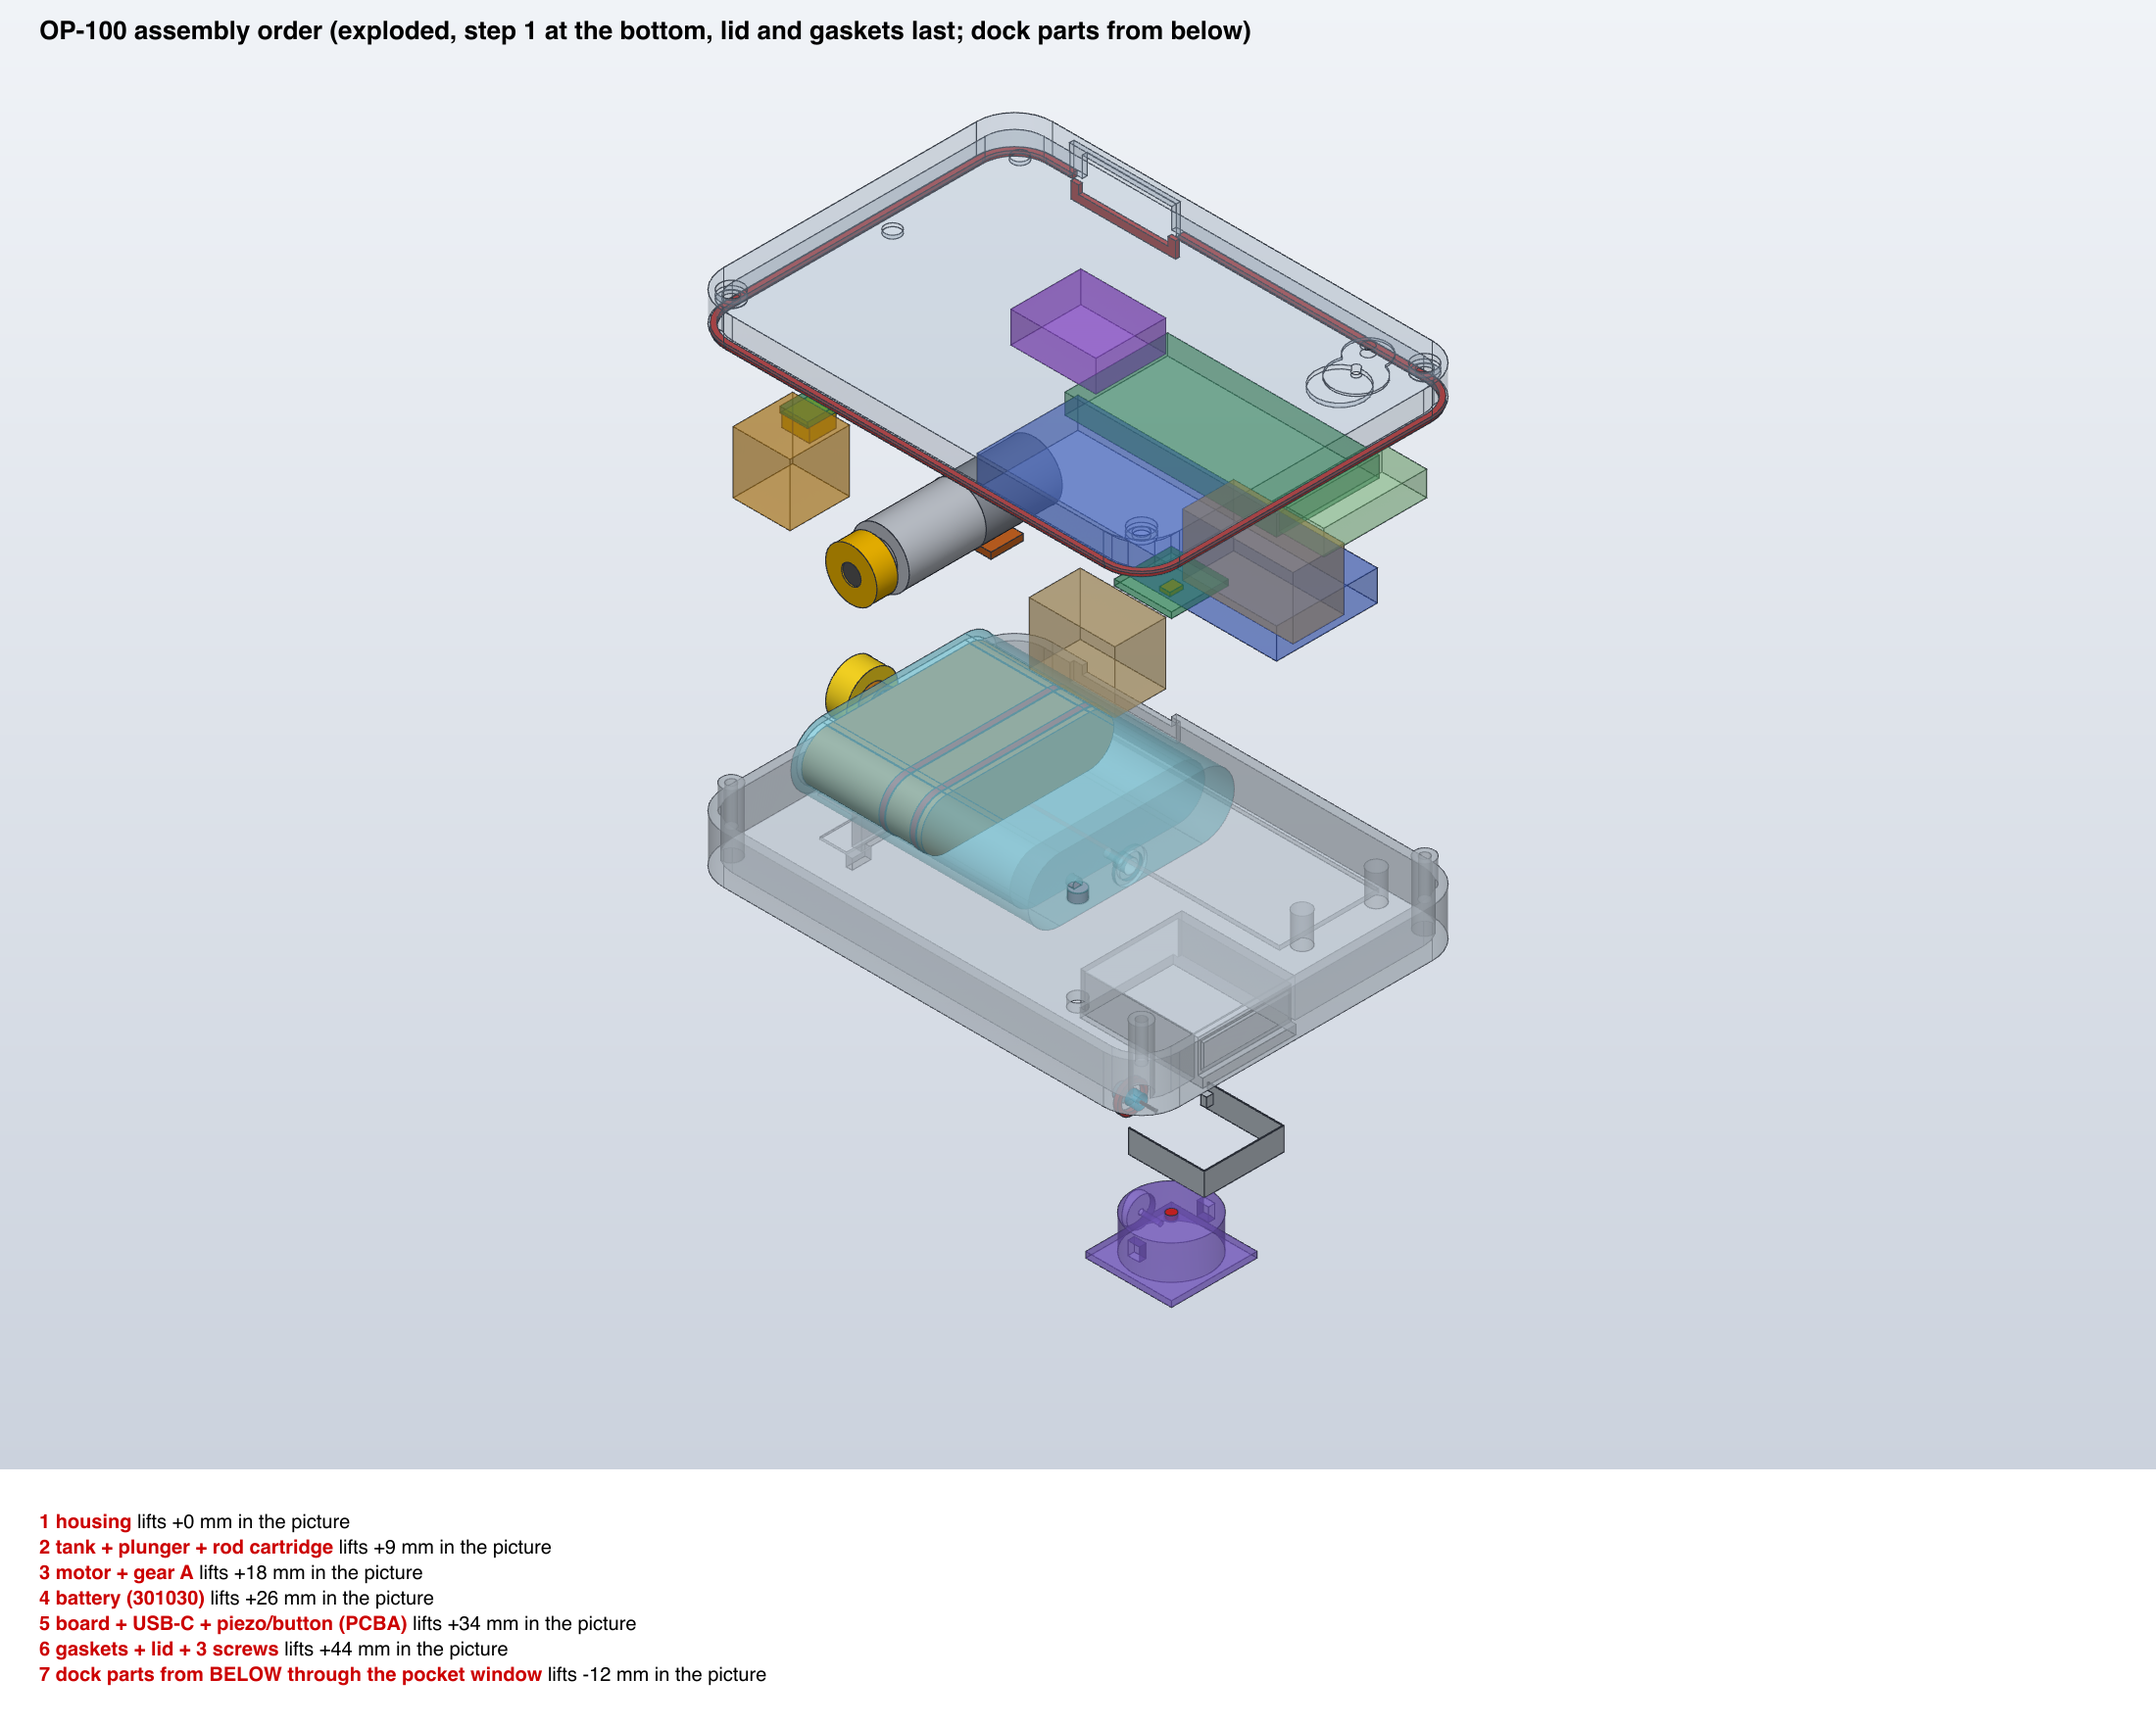
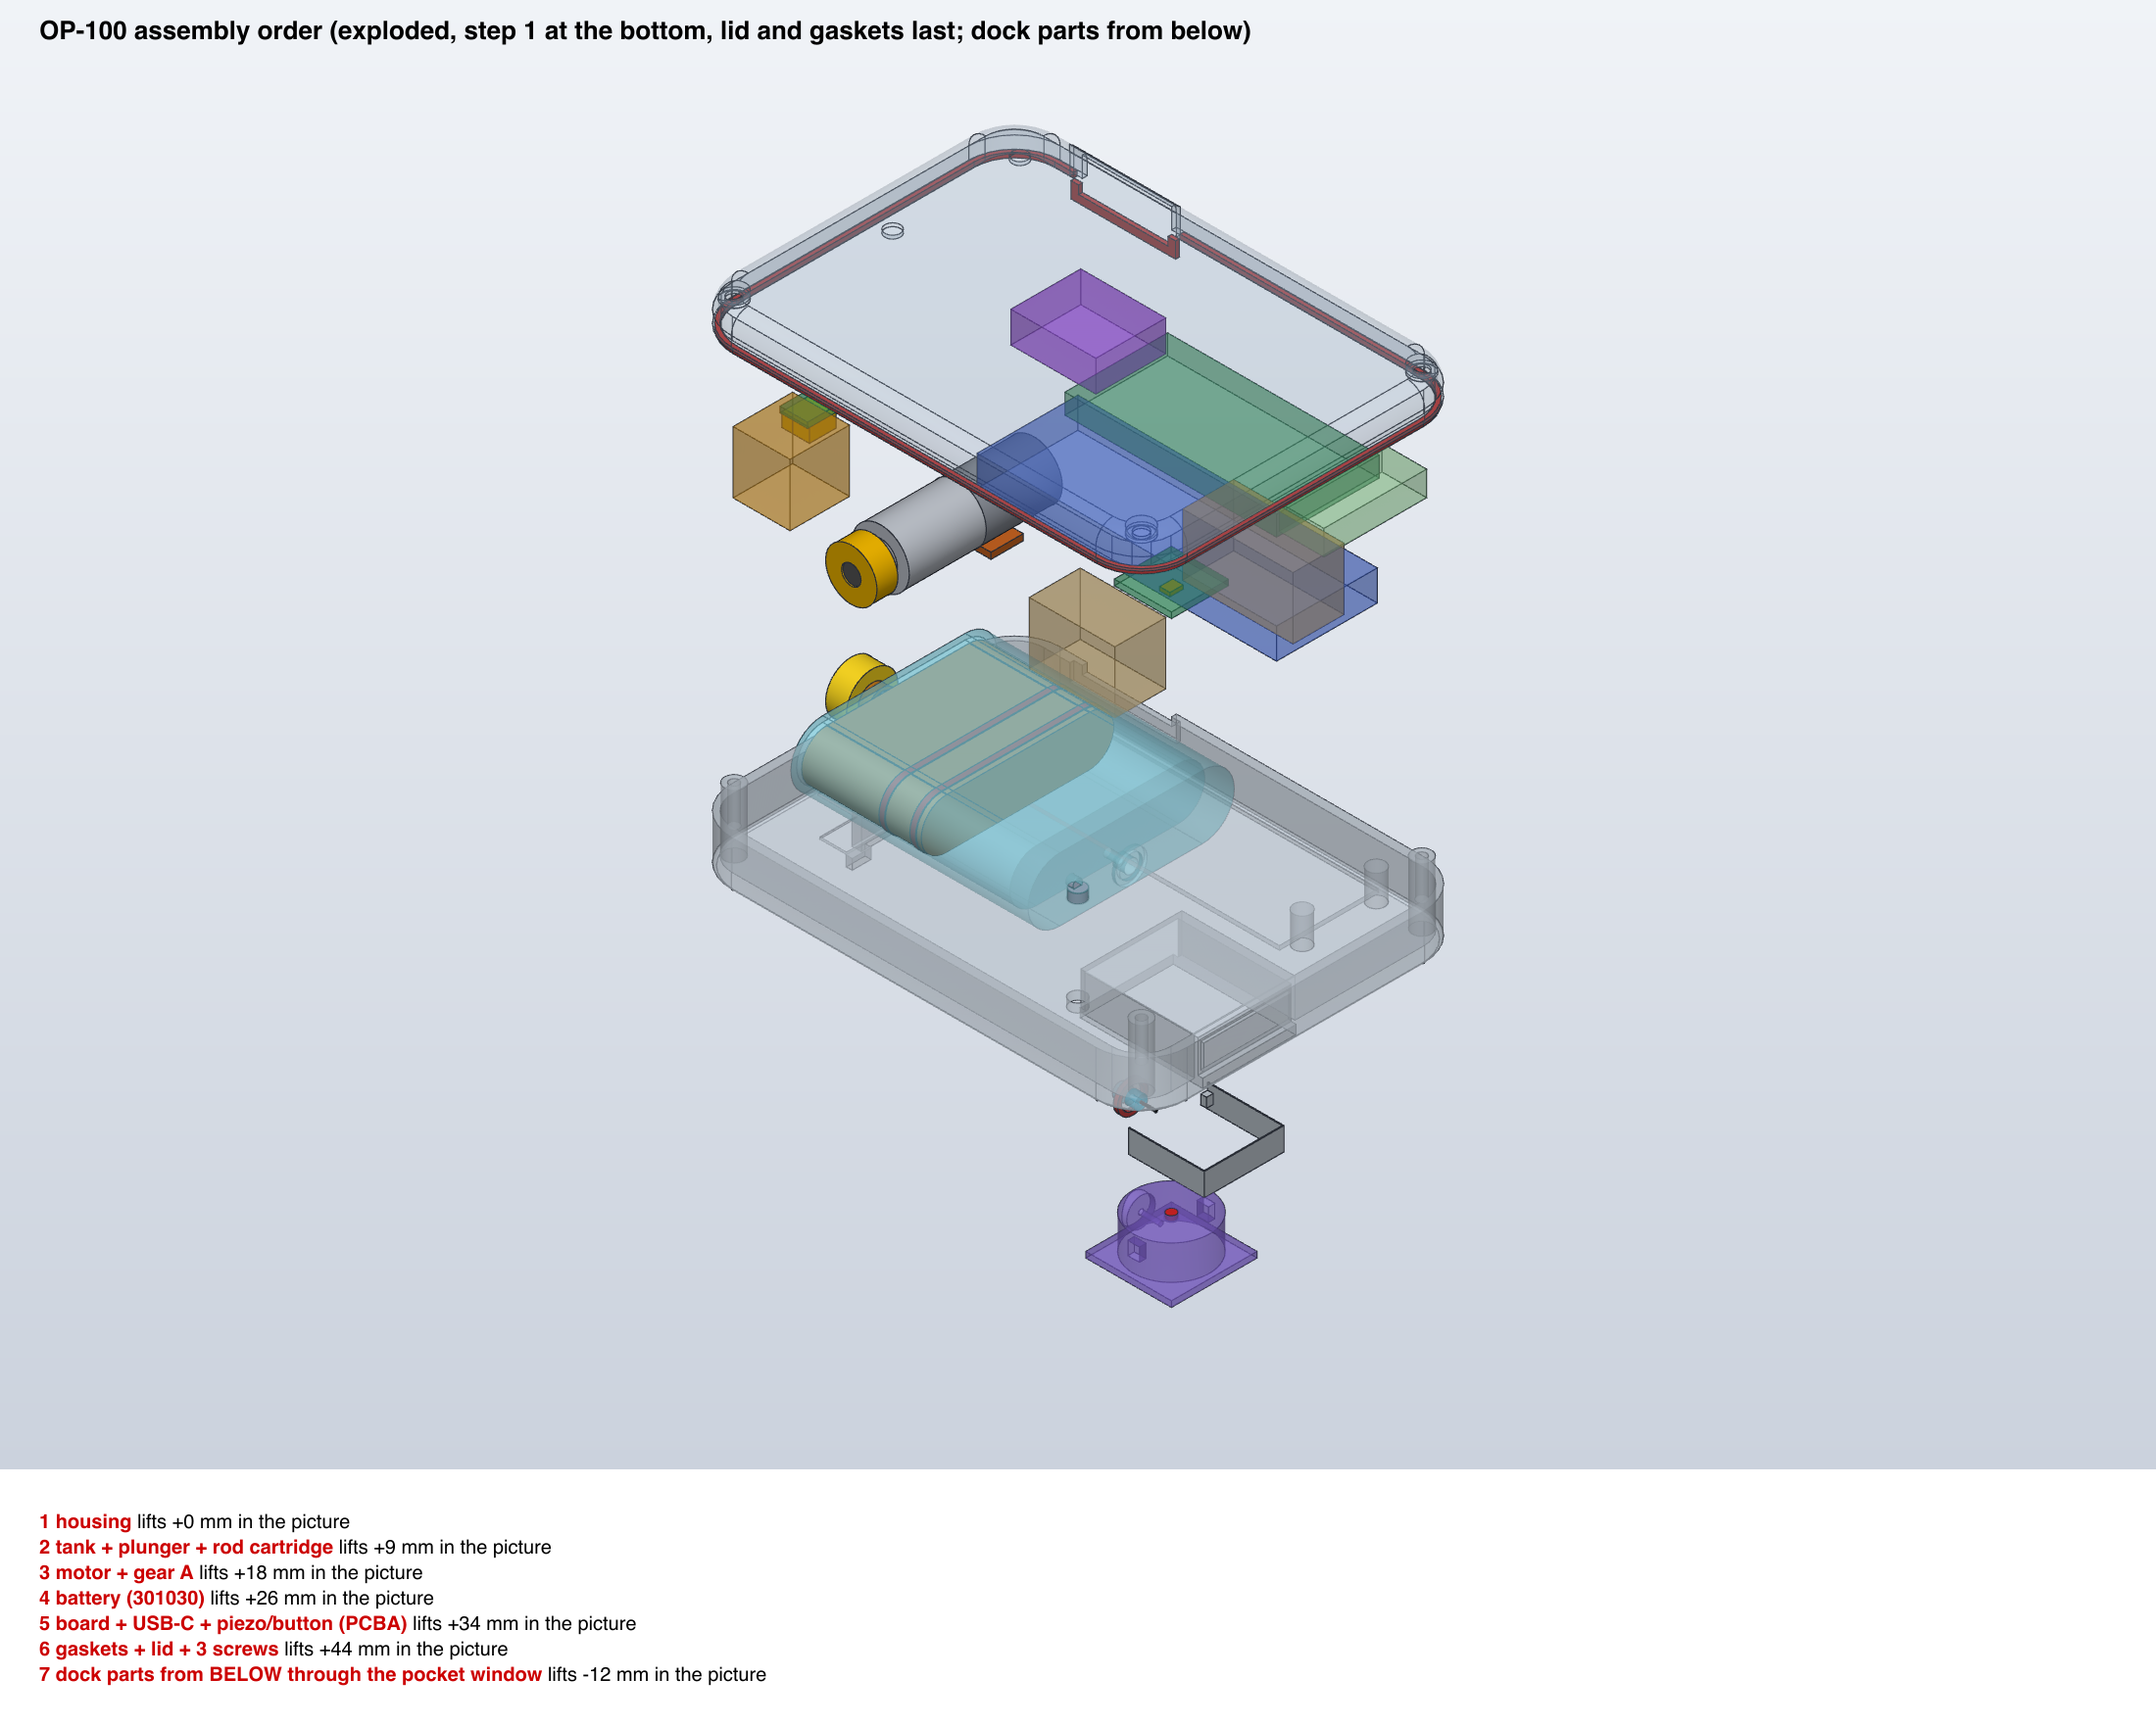
feat(mechanical): clean pebble exterior for the cup pod (clear lid, R4.8 corners, R1.8 top fillet, flat bottom), top screws, silicone gasket spec

diff --git a/mechanical/op_cup_asm.py b/mechanical/op_cup_asm.py
@@ -19,7 +19,7 @@ FROM_BELOW = {"hub_oring", "needle_hub", "needle", "needle_guard", "dock_clip", 
 
 def corner_posts(L: dict) -> list[tuple[float, float]]:
     w, Lp, W = L["wall"], L["length"], L["width"]
-    return [(w + 1.5, w + 1.5), (Lp - w - 1.5, w + 1.5), (Lp - w - 1.5, W - w - 1.5)]
+    return [(w + 1.65, w + 1.65), (Lp - w - 1.65, w + 1.65), (Lp - w - 1.65, W - w - 1.65)]
 
 
 def build(s: Script, p: dict, L: dict) -> None:
@@ -30,14 +30,16 @@ def build(s: Script, p: dict, L: dict) -> None:
     bu, usb, bat = c["bush"], c["usb"], c["battery"]
     posts = corner_posts(L)
     joins, cuts, tcuts = [], [], []
-    # ---- (1) lid closure: 3 tall posts (thread-forming M1.2 into d1.0 pilots, 4 mm deep), lid roof rests on them, flat 0.5 mm gasket on the rim, lid clearance cut at the corner
+    # ---- (1) lid closure from the TOP: 3 posts in the bottom corners (thread-forming M1.2 into d1.0 pilots, 4 mm deep); flush countersunk heads in the clear lid, sealed under the head by a
+    #          0.3 mm silicone washer; the lid roof rests on the post tops; flat silicone gasket on the rim
+    rr = c["corner_r_outer"]
     for k, (px, py) in enumerate(posts):
         joins.append(s.cyl(f"t_post{k}", "Z", (px, py, 0), 2.0, w - 0.1, H - w - 0.05))
         cuts.append(s.cyl(f"t_pilot{k}", "Z", (px, py, 0), 1.0, H - w - 4.0, H - w))
         tcuts += [s.cyl(f"t_tcl{k}", "Z", (px, py, 0), 2.4, lap + 0.3, H - w + 0.05), s.cyl(f"t_thole{k}", "Z", (px, py, 0), 1.4, H - w - 0.1, H + 0.1),
-                  s.cyl(f"t_thead{k}", "Z", (px, py, 0), 2.4, H - 0.5, H + 0.1)]
-    s.rrect("lid_gasket", (0.15, Lp - 0.15), (0.15, W - 0.15), p["shell"]["corner_r"] - 0.15, (lap, lap + 0.5))
-    s.rrect("t_gk_in", (0.65, Lp - 0.65), (0.65, W - 0.65), p["shell"]["corner_r"] - 0.65, (lap - 0.1, lap + 0.6))
+                  s.cyl(f"t_thead{k}", "Z", (px, py, 0), 2.4, H - 0.6, H + 0.1)]
+    s.rrect("lid_gasket", (0.15, Lp - 0.15), (0.15, W - 0.15), rr - 0.15, (lap, lap + 0.5))
+    s.rrect("t_gk_in", (0.55, Lp - 0.55), (0.55, W - 0.55), rr - 0.55, (lap - 0.1, lap + 0.6))
     s.cut("lid_gasket", ["t_gk_in"])
     # ---- (2) motor cradle: saddles exist (U, open top); lid posts hold the can; FPC groove from the pin pocket toward lane 2
     ys = [L["gearhead_y"][0] + 0.5, L["motor_y"][1] - 2.2]
@@ -76,12 +78,6 @@ def build(s: Script, p: dict, L: dict) -> None:
     # ---- (9) U-clip bridge slot in the pocket end wall (clip is pressed in from below), pocket mouth lead-in chamfer on the window edge
     z0 = K["clip"]["z0"]
     cuts.append(s.box("t_clip_slot", (K["x_far"] - 0.2, K["x_far"] + 0.3), (yr - K["R"] - 0.6, yr + K["R"] + 0.6), (z0 - 0.1, z0 + K["clip"]["b"] + 0.1)))
-    # ---- (10) piezo port + membrane recess and button membrane in the lid roof (over the aux zone)
-    ax = L["aux"]["x"]
-    xm = (ax[0] + ax[1]) / 2
-    pz, bn, pt = (xm - 1.0, L["lane2_y"][1] - 2.8), (xm + 1.0, L["lane2_y"][0] + 3.0), p["port"]
-    tcuts += [s.cyl("t_pz", "Z", (pz[0], pz[1], 0), pt["hole_d"], H - w - 0.1, H + 0.1), s.cyl("t_pzr", "Z", (pz[0], pz[1], 0), pt["recess_d"], H - w - 0.1, H - w + pt["recess_depth"]),
-              s.cyl("t_bm", "Z", (bn[0], bn[1], 0), p["button"]["d_memb"], H - (w - p["button"]["memb_t"]), H + 0.1)]
     s.join("bottom", joins)
     s.cut("bottom", cuts)
     s.cut("top", tcuts)

diff --git a/mechanical/op_cup.py b/mechanical/op_cup.py
@@ -214,7 +214,9 @@ def build_housing(s: Script, p: dict, L: dict) -> None:
     zc, yr, xc, K = L["zc"], L["y_r"], L["xc"], L["dock"]
     dr = p["drive_nfp"]
     half, dk = K["half"], c["dock"]
-    s.rrect("bottom", (0, Lp), (0, W), r, (0, lap))
+    rr = c["corner_r_outer"]                                                    # outer vertical corner radius (pebble); inner cavity keeps R3.1
+    s.rrect("bottom", (0, Lp), (0, W), rr, (0, lap))
+    s.fillet_chain("bottom", (Lp / 2, 0.0, 0.0), c["bottom_break"])             # flat bottom, 0.3 mm edge break only
     s.rrect("t_cav", (w, Lp - w), (w, W - w), r - w, (w, lap + 0.1))
     s.cut("bottom", ["t_cav"])
     z_roof0 = dk["head"]["B_dome_h"] + dk["clr"]
@@ -244,13 +246,10 @@ def build_housing(s: Script, p: dict, L: dict) -> None:
         cuts.append(s.cyl(f"t_sad_bore{k}", "Y", (xc, 0, zc), 6.0 + 2 * c["motor"]["saddle_clr"], y0 - 0.05, y0 + sl + 0.05))
     s.cut("bottom", cuts)
     lap_t = lap + 0.4                                                           # lid starts 0.4 above the rim: flat gasket between
-    s.rrect("top", (0, Lp), (0, W), r, (lap_t, H))
+    s.rrect("top", (0, Lp), (0, W), rr, (lap_t, H))
+    s.fillet_chain("top", (Lp / 2, 0.0, H), c["top_fillet"])                    # smooth pebble top: largest fillet the unchanged inner cavity allows (min wall 0.5)
     s.rrect("t_cavt", (w, Lp - w), (w, W - w), r - w, (lap_t - 0.1, H - w))
     s.cut("top", ["t_cavt"])
-    v = c["vent"]
-    xv = L["aux"]["x"][1] - 2.0
-    yv = (L["lane2_y"][0] + L["lane2_y"][1]) / 2
-    s.cut("top", [s.cyl("t_vent", "Z", (xv, yv, 0), v["hole_d"], H - w - 0.1, H + 0.1), s.cyl("t_vrec", "Z", (xv, yv, 0), v["recess_d"], H - w - 0.1, H - w + v["recess_depth"])])
 
 
 def build(p: dict, variant: str) -> tuple[Script, dict]:

diff --git a/mechanical/ASSEMBLY-CUP.md b/mechanical/ASSEMBLY-CUP.md
@@ -11,11 +11,11 @@ Renders: `out/v010-cup/OP-100_assembly_labeled.png` (exploded in assembly order)
 3. **Motor + gear A:** gear A pressed on the motor shaft (retaining compound only if it creeps), motor dropped into the two saddles, gear A meshes with gear B as it seats (rock gently); the terminal block sits in the floor pocket, the FPC lies in the groove. The lid posts press the can (0.05 mm gap).
 4. **Battery** (Ampul 301030) into the tray, wires toward the board edge; PCM end toward the motor side.
 5. **PCBA** (board with USB-C receptacle, piezo, button, TMAG tab, dock hall tab, 4 motor + 2 cell spring contacts): lower onto the ledges / contact landings; USB-C passes into the wall opening (the receptacle is soldered to the board by the PCBA house). Board outline and keep-outs are those of the electronics agent; the ledges are under the aux zone only.
-6. **Gaskets and lid:** USB-C gasket frame into the wall recess, flat rim gasket (0.5 mm, 20 % squeeze) on the rim, lid on (roof rests on the three posts, gasket is squeezed 0.1 mm), 3 x M1.2 thread-forming screws.
+6. **Gaskets and lid:** USB-C gasket frame into the wall recess, flat rim gasket (0.5 mm, 20 % squeeze) on the rim, lid on (roof rests on the three posts, gasket is squeezed 0.1 mm), 3 x M1.2 thread-forming screws from the TOP (flush countersunk heads in the clear lid, 0.3 mm silicone washer under each head).
 7. **Dock parts from BELOW** through the pocket window (pod on its back): O-ring into the face groove around the hub seat; needle + hub pressed into the front wall seat with the drift; guard sleeve (spring) over the needle; U-clip (301 FH) pushed up into the pocket (bridge into the slot in the end wall). This is the only group that cannot be inserted from above: the pocket roof covers the needle path. After this the pod is closed.
 
 ## Features added in the housing pass (geometry only; no component or keep-out moved)
-Lid closure: 3 posts + flat gasket (lid starts 0.4 mm above the rim, total height unchanged 8.5); motor cradle: U saddles + lid posts; tank seat: 2 stop blocks + pocket face + O-ring groove (3.4 / 2.4) around the hub seat; bearing U rib; battery tray; board ledges; USB-C opening in bottom AND lid wall with gasket recess; clip slot; piezo port (d0.8, 0.2 recess) and button membrane (0.5 mm) in the lid roof over the aux zone.
+Exterior (user feedback): clear lid with a clean top (no vent, piezo port or button membrane: piezo and button sit on the board, reachable with the lid off), pebble shape: outer vertical corners R4.8, top edge fillet R1.8 (the largest the unchanged inner cavity allows: min wall 0.5 at the inner top corner; R2.8 would need the keep-outs 1 mm off the walls), flat bottom with a 0.3 mm edge break only. Lid closure: 3 posts in the bottom corners, M1.2 screws from the top with flush countersunk heads (d2.4 x 0.6) sealed by a silicone washer under the head, flat gasket on the rim (lid starts 0.4 mm above the rim, total height unchanged 8.5); motor cradle: U saddles + lid posts; tank seat: 2 stop blocks + pocket face + O-ring groove (3.4 / 2.4) around the hub seat; bearing U rib; battery tray; board ledges; USB-C opening in bottom AND lid wall with gasket recess; clip slot; nothing else in the lid.
 
 ## Cannot be done cleanly / open
 * Dock parts (group 7) go in from below; the pocket roof blocks any other path. Needle press-in with the pod on its back needs a 2 mm drift and a support under the front wall.
@@ -24,3 +24,6 @@ Lid closure: 3 posts + flat gasket (lid starts 0.4 mm above the rim, total heigh
 * Cell wires: the 301030 PCM end needs a 1.5 mm tail and a wire slot at the board edge, not modelled (inside the 31.5 mm envelope).
 * Gear A engages gear B while the motor drops (miter pair meshes tangentially): needs a small wiggle, the drop test excludes this pair.
 * Wall minima of the new features: posts 0.5, hub O-ring groove wall 0.49, USB recess wall 0.5, FPC groove floor 0.35, gasket 0.5 wide (all >= 0.35; floor groove below the 0.4 hard floor is a documented exception).
+
+## Sealing (bench tests run with the lid open; no other waterproofing features)
+The only seal is the continuous **silicone gasket** between the shells (die-cut ring 0.5 mm thick x 0.4 mm wide, platinum-cure silicone, Shore A 40-50, or a cut-to-size 0.6 mm cord), 0.5 mm free height squeezed to 0.4 mm by the lid roof resting on the three posts = **20 %** compression (target 20-25 %). The wall is only 0.9 mm thick, so a gasket groove is not possible without moving the keep-outs: the gasket sits flat on the rim 0.15 mm in from the outer edge. The three screws sit inside the gasket line (no room outside it), so they are sealed under the head with a die-cut 0.3 mm silicone washer (d2.4 / d1.3) in the countersink; the pilots are blind. The USB-C opening keeps its own 0.4 mm gasket frame and breaks the rim gasket there.
